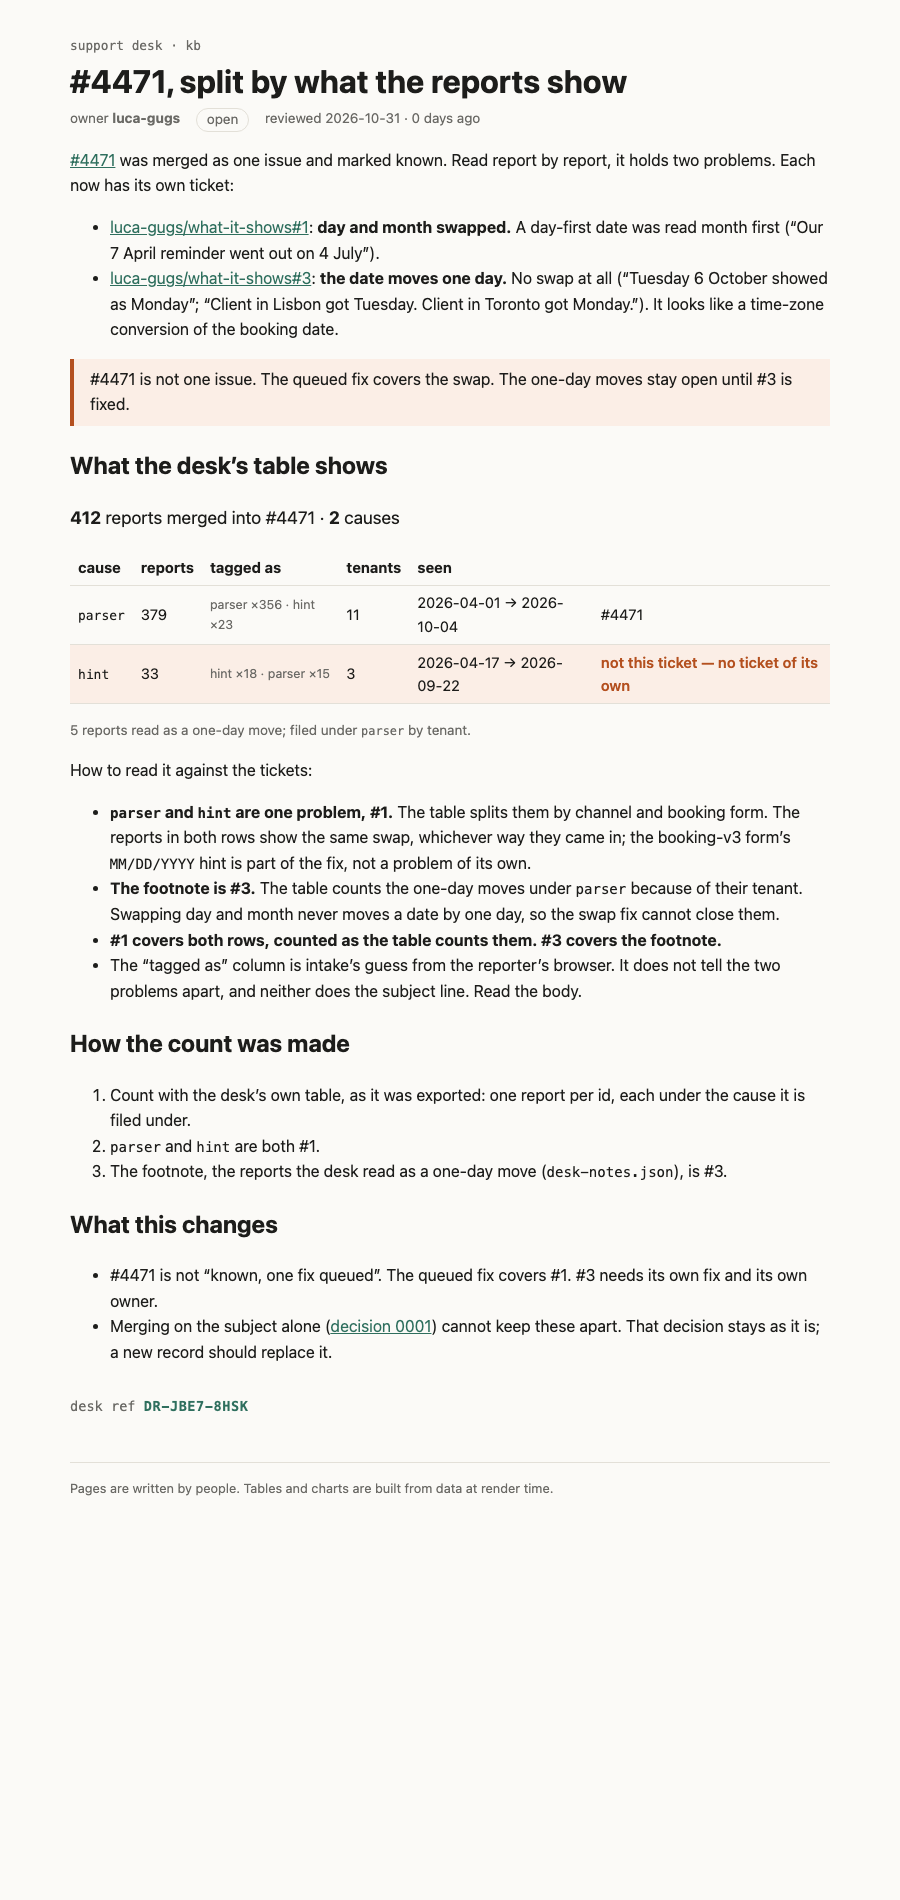
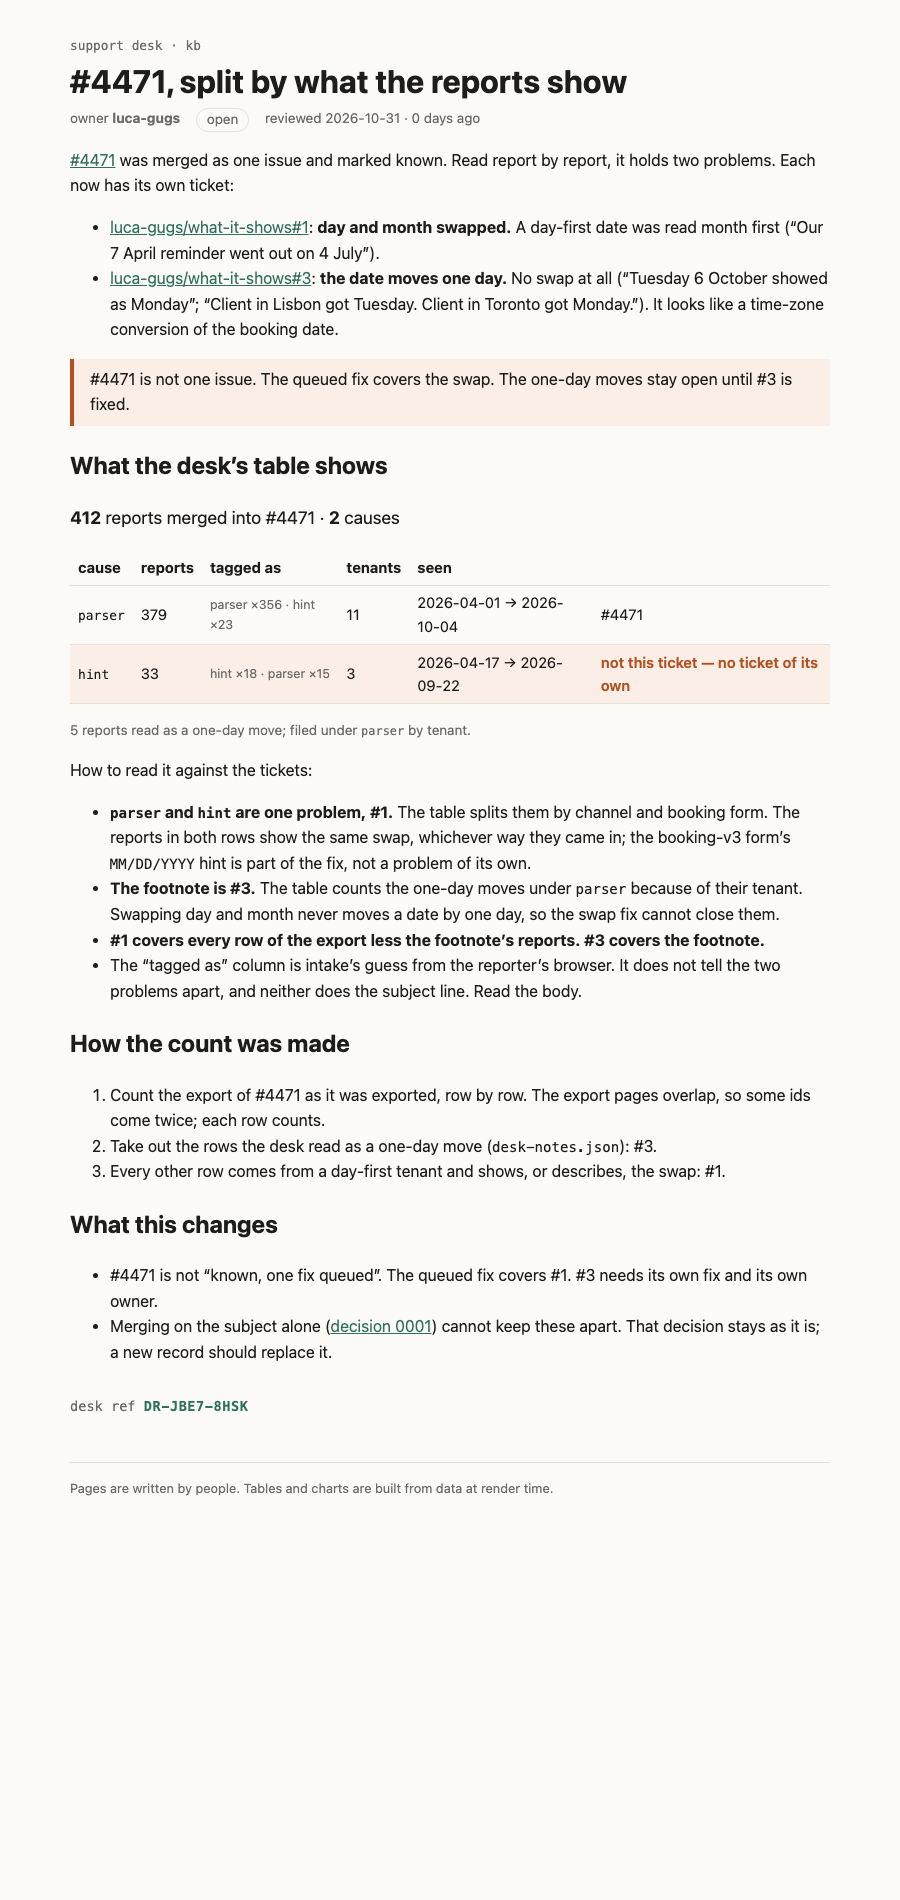
Count #4471's tickets by export row: #1 422, #3 5

diff --git a/rendered/kb--incidents--4471-split.html b/rendered/kb--incidents--4471-split.html
@@ -3,14 +3,14 @@
   <head>
     <meta charset="utf-8" />
     <meta name="viewport" content="width=device-width, initial-scale=1" />
-    <link href="../../_app/immutable/entry/start.BCHZXiEB.js" rel="modulepreload">
-		<link href="../../_app/immutable/chunks/DjGeDj5B.js" rel="modulepreload">
+    <link href="../../_app/immutable/entry/start.C60nNJ8e.js" rel="modulepreload">
+		<link href="../../_app/immutable/chunks/CMoh4ZU8.js" rel="modulepreload">
 		<link href="../../_app/immutable/chunks/W8JXJZ79.js" rel="modulepreload">
-		<link href="../../_app/immutable/entry/app.B3ye-fDi.js" rel="modulepreload">
+		<link href="../../_app/immutable/entry/app.ZKQTlV7G.js" rel="modulepreload">
 		<link href="../../_app/immutable/chunks/xihTtKlq.js" rel="modulepreload">
 		<link href="../../_app/immutable/nodes/0.C46UDYLG.js" rel="modulepreload">
-		<link href="../../_app/immutable/nodes/5.DiUPbQc3.js" rel="modulepreload">
-		<link href="../../_app/immutable/chunks/ejctmR-Z.js" rel="modulepreload">
+		<link href="../../_app/immutable/nodes/5.Crm5pXnn.js" rel="modulepreload">
+		<link href="../../_app/immutable/chunks/CVvQ-XX5.js" rel="modulepreload">
 		<link href="../../_app/immutable/chunks/DooIRhXB.js" rel="modulepreload">
 		<link href="../../_app/immutable/chunks/BqIY6Irz.js" rel="modulepreload">
 		<link href="../../_app/immutable/chunks/CrgYNgkp.js" rel="modulepreload">
@@ -32,9 +32,9 @@ swapped.</strong> A day-first date was read month first (“Our 7 April reminder
 one day.</strong> No swap at all (“Tuesday 6 October showed as Monday”; “Client in Lisbon got Tuesday.
 Client in Toronto got Monday.”). It looks like a time-zone conversion of the booking date.</li></ul> <aside class="warn svelte-17bri61"><!---->#4471 is not one issue. The queued fix covers the swap. The one-day moves stay open until #3 is fixed.<!----></aside><!----> <h2>What the desk’s table shows</h2> <p class="sum svelte-12oyimm"><strong>412</strong> reports merged into #4471 · <strong>2</strong> causes</p> <table><thead><tr><th>cause</th><th>reports</th><th>tagged as</th><th>tenants</th><th>seen</th><th></th></tr></thead><tbody><!--[--><tr class="svelte-12oyimm"><td class="svelte-12oyimm"><code>parser</code></td><td class="svelte-12oyimm">379</td><td class="tags svelte-12oyimm">parser ×356 · hint ×23</td><td class="svelte-12oyimm">11</td><td class="svelte-12oyimm">2026-04-01 → 2026-10-04</td><td class="svelte-12oyimm">#4471</td></tr><tr class="svelte-12oyimm wrong"><td class="svelte-12oyimm"><code>hint</code></td><td class="svelte-12oyimm">33</td><td class="tags svelte-12oyimm">hint ×18 · parser ×15</td><td class="svelte-12oyimm">3</td><td class="svelte-12oyimm">2026-04-17 → 2026-09-22</td><td class="svelte-12oyimm">not this ticket — no ticket of its own</td></tr><!--]--></tbody></table> <!--[--><!--[0--><p class="note svelte-12oyimm">5 reports read as a one-day move; filed under <code>parser</code> by tenant.</p><!--]--><!--[-1--><!--]--><!--]--><!----> <p>How to read it against the tickets:</p> <ul><li><strong><code>parser</code> and <code>hint</code> are one problem, #1.</strong> The table splits them by channel and booking form.
 The reports in both rows show the same swap, whichever way they came in; the booking-v3 form’s <code>MM/DD/YYYY</code> hint is part of the fix, not a problem of its own.</li> <li><strong>The footnote is #3.</strong> The table counts the one-day moves under <code>parser</code> because of their tenant.
-Swapping day and month never moves a date by one day, so the swap fix cannot close them.</li> <li><strong>#1 covers both rows, counted as the table counts them. #3 covers the footnote.</strong></li> <li>The “tagged as” column is intake’s guess from the reporter’s browser. It does not tell the two
-problems apart, and neither does the subject line. Read the body.</li></ul> <h2>How the count was made</h2> <ol><li>Count with the desk’s own table, as it was exported: one report per id, each under the cause it
-is filed under.</li> <li><code>parser</code> and <code>hint</code> are both #1.</li> <li>The footnote, the reports the desk read as a one-day move (<code>desk-notes.json</code>), is #3.</li></ol> <h2>What this changes</h2> <ul><li>#4471 is not “known, one fix queued”. The queued fix covers #1. #3 needs its own fix and its own
+Swapping day and month never moves a date by one day, so the swap fix cannot close them.</li> <li><strong>#1 covers every row of the export less the footnote’s reports. #3 covers the footnote.</strong></li> <li>The “tagged as” column is intake’s guess from the reporter’s browser. It does not tell the two
+problems apart, and neither does the subject line. Read the body.</li></ul> <h2>How the count was made</h2> <ol><li>Count the export of #4471 as it was exported, row by row. The export pages overlap, so some ids
+come twice; each row counts.</li> <li>Take out the rows the desk read as a one-day move (<code>desk-notes.json</code>): #3.</li> <li>Every other row comes from a day-first tenant and shows, or describes, the swap: #1.</li></ol> <h2>What this changes</h2> <ul><li>#4471 is not “known, one fix queued”. The queued fix covers #1. #3 needs its own fix and its own
 owner.</li> <li>Merging on the subject alone (<a href="/kb/decisions/0001-dedupe-by-subject">decision 0001</a>) cannot keep
 these apart. That decision stays as it is; a new record should replace it.</li></ul> <!--[0--><p class="stamp svelte-1280m42">desk ref <b class="svelte-1280m42">DR-JBE7-8HSK</b></p><!--]--><!----><!----></main> <footer class="svelte-e2jw2j">Pages are written by people. Tables and charts are built from data at render time.</footer></div><!--]--><!----><!--]--><!--]--> <!--[-1--><!--]--><!--]-->
 		</div>
